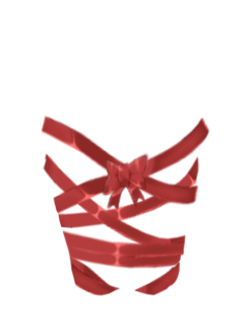
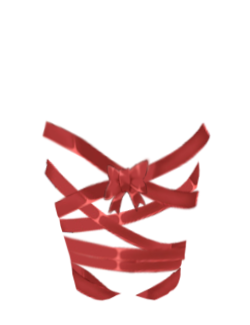
ribbon expanded

Changed region(s): [[0.168, 0.3385, 0.84, 0.9231]]

diff --git a/BondageClub/Assets/Female3DCG/Female3DCG.js b/BondageClub/Assets/Female3DCG/Female3DCG.js
@@ -66,58 +66,58 @@ var AssetFemale3DCG = [
 				],
 				Require: ["ClothLower", "ClothAccessory"]
 			},
-			{ Name: "BabydollDress1", Fetish: ["ABDL"], HideItem: ["ClothLowerLatexSkirt1", "ItemNipplesPiercingsRoundPiercing", "ItemNipplesPiercingsWeightedPiercing", "ItemDevicesStrapOnSmooth", "ItemDevicesStrapOnStuds", "ItemNipplesLactationPump"], Layer: [
+			{ Name: "BabydollDress1", Fetish: ["ABDL"], HideItem: ["ClothLowerLatexSkirt1", "ItemNipplesPiercingsRoundPiercing", "ItemNipplesPiercingsWeightedPiercing", "ItemDevicesStrapOnSmooth", "ItemDevicesStrapOnStuds", "ItemNipplesLactationPump", "BraRibbons", "ItemBreastRibbons"], Layer: [
 				{ Name: "Dress"},
 				{ Name: "Trim"}
 			] },
 			{ Name: "TeacherOutfit1", Hide: ["ItemNeck", "ItemHidden"], HideItem: ["ItemArmsLeatherCuffs", "ItemArmsFuturisticCuffs", "ItemArmsOrnateCuffs", "ClothLowerLatexSkirt1", "ClothLowerSkirt1", "ClothLowerSkirt2", "ClothLowerSkirt3", "ClothLowerTennisSkirt1", "ClothLowerClothSkirt1", "ItemNipplesPiercingsRoundPiercing", "ItemNipplesPiercingsWeightedPiercing", "ItemDevicesStrapOnSmooth", "ItemDevicesStrapOnStuds", "ItemNipplesLactationPump"], AllowPose: ["TapedHands", "BackBoxTie", "BackCuffs", "BackElbowTouch", "Yoked", "Hogtied", "AllFours", "OverTheHead", "Horse", "KneelingSpread"] },
 			{ Name: "ChineseDress1", HideItem: ["ClothLowerLatexSkirt1", "ClothLowerLatexSkirt2", "ClothLowerSkirt1", "ClothLowerSkirt2", "ClothLowerSkirt3", "ClothLowerTennisSkirt1", "ClothLowerClothSkirt1", "ItemNipplesPiercingsRoundPiercing", "ItemNipplesPiercingsWeightedPiercing", "ItemDevicesStrapOnSmooth", "ItemDevicesStrapOnStuds", "ItemNipplesLactationPump"] },
 			{
-				Name: "ChineseDress2", Value: 60, HideItem: ["ItemNipplesPiercingsRoundPiercing", "ItemNipplesPiercingsWeightedPiercing", "ItemDevicesStrapOnSmooth", "ItemDevicesStrapOnStuds", "ItemNipplesLactationPump"],
+				Name: "ChineseDress2", Value: 60, HideItem: ["ItemNipplesPiercingsRoundPiercing", "ItemNipplesPiercingsWeightedPiercing", "ItemDevicesStrapOnSmooth", "ItemDevicesStrapOnStuds", "ItemNipplesLactationPump", "BraRibbons", "ItemBreastRibbons"],
 				Layer: [
 					{ Name: "Dress", AllowColorize: true },
 					{ Name: "Edges", AllowColorize: true },
 				]
 			},
-			{ Name: "TShirt1", HideItem: ["ItemNipplesPiercingsRoundPiercing", "ItemNipplesPiercingsWeightedPiercing", "ItemNipplesLactationPump"], Require: ["ClothLower"] },
+			{ Name: "TShirt1", HideItem: ["ItemNipplesPiercingsRoundPiercing", "ItemNipplesPiercingsWeightedPiercing", "ItemNipplesLactationPump", "BraRibbons", "ItemBreastRibbons"], Require: ["ClothLower"] },
 			{ Name: "TennisShirt1", Hide: ["ItemHidden"], HideItem: ["ItemNipplesPiercingsRoundPiercing", "ItemNipplesPiercingsWeightedPiercing", "ItemNipplesLactationPump"], Require: ["ClothLower"] },
 			{ Name: "Sweater1", HideItem: ["ItemArmsLeatherCuffs", "ItemArmsFuturisticCuffs", "ItemArmsOrnateCuffs", "ItemNipplesPiercingsRoundPiercing", "ItemNipplesPiercingsWeightedPiercing", "ItemNipplesLactationPump"], Require: ["ClothLower"] },
 			{ Name: "MistressTop", Fetish: ["Leather"], Value: -1, Bonus: "KidnapDomination", Hide: ["Bra"], HideItem: ["ItemNipplesPiercingsRoundPiercing", "ItemNipplesPiercingsWeightedPiercing", "ItemNipplesLactationPump"], Require: ["ClothLower"] },
-			{ Name: "AdultBabyDress1", Fetish: ["ABDL"], Value: 60, Hide: ["ItemHidden"], HideItem: ["ClothLowerLatexSkirt1", "ClothLowerLatexSkirt2", "ClothLowerSkirt1", "ClothLowerSkirt2", "ClothLowerSkirt3", "ClothLowerTennisSkirt1", "ClothLowerClothSkirt1", "ItemNipplesPiercingsRoundPiercing", "ItemNipplesPiercingsWeightedPiercing", "ItemDevicesStrapOnSmooth", "ItemDevicesStrapOnStuds", "ItemNipplesLactationPump"], Layer: [
+			{ Name: "AdultBabyDress1", Fetish: ["ABDL"], Value: 60, Hide: ["ItemHidden"], HideItem: ["ClothLowerLatexSkirt1", "ClothLowerLatexSkirt2", "ClothLowerSkirt1", "ClothLowerSkirt2", "ClothLowerSkirt3", "ClothLowerTennisSkirt1", "ClothLowerClothSkirt1", "ItemNipplesPiercingsRoundPiercing", "ItemNipplesPiercingsWeightedPiercing", "ItemDevicesStrapOnSmooth", "ItemDevicesStrapOnStuds", "ItemNipplesLactationPump", "BraRibbons", "ItemBreastRibbons"], Layer: [
 				{ Name: "Dress"},
 				{ Name: "Sash"},
 				{ Name: "Trim"}
 			] },
-			{ Name: "AdultBabyDress2", Fetish: ["ABDL"], Value: 80, HideItem: ["ClothLowerLatexSkirt1", "ClothLowerLatexSkirt2", "ClothLowerSkirt1", "ClothLowerSkirt2", "ClothLowerSkirt3", "ClothLowerTennisSkirt1", "ClothLowerClothSkirt1", "ItemNipplesPiercingsRoundPiercing", "ItemNipplesPiercingsWeightedPiercing", "ItemDevicesStrapOnSmooth", "ItemDevicesStrapOnStuds", "ItemNipplesLactationPump"] },
-			{ Name: "AdultBabyDress3", Fetish: ["ABDL"], Value: 40, HideItem: ["ClothLowerLatexSkirt1", "ClothLowerLatexSkirt2", "ClothLowerSkirt1", "ClothLowerSkirt2", "ClothLowerSkirt3", "ClothLowerTennisSkirt1", "ClothLowerClothSkirt1", "ItemNipplesPiercingsRoundPiercing", "ItemNipplesPiercingsWeightedPiercing", "ItemDevicesStrapOnSmooth", "ItemDevicesStrapOnStuds", "ItemNipplesLactationPump"] },
+			{ Name: "AdultBabyDress2", Fetish: ["ABDL"], Value: 80, HideItem: ["ClothLowerLatexSkirt1", "ClothLowerLatexSkirt2", "ClothLowerSkirt1", "ClothLowerSkirt2", "ClothLowerSkirt3", "ClothLowerTennisSkirt1", "ClothLowerClothSkirt1", "ItemNipplesPiercingsRoundPiercing", "ItemNipplesPiercingsWeightedPiercing", "ItemDevicesStrapOnSmooth", "ItemDevicesStrapOnStuds", "ItemNipplesLactationPump", "BraRibbons", "ItemBreastRibbons"] },
+			{ Name: "AdultBabyDress3", Fetish: ["ABDL"], Value: 40, HideItem: ["ClothLowerLatexSkirt1", "ClothLowerLatexSkirt2", "ClothLowerSkirt1", "ClothLowerSkirt2", "ClothLowerSkirt3", "ClothLowerTennisSkirt1", "ClothLowerClothSkirt1", "ItemNipplesPiercingsRoundPiercing", "ItemNipplesPiercingsWeightedPiercing", "ItemDevicesStrapOnSmooth", "ItemDevicesStrapOnStuds", "ItemNipplesLactationPump", "BraRibbons", "ItemBreastRibbons"] },
 			{ Name: "AdultBabyDress4", Fetish: ["ABDL"], Value: 80, Left: 100, Top: 190, HideItem: ["ClothLowerLatexSkirt1", "ClothLowerLatexSkirt2", "ClothLowerSkirt1", "ClothLowerSkirt2", "ClothLowerSkirt3", "ClothLowerTennisSkirt1", "ClothLowerClothSkirt1", "ItemNipplesPiercingsRoundPiercing", "ItemNipplesPiercingsWeightedPiercing", "ItemDevicesStrapOnSmooth", "ItemDevicesStrapOnStuds", "ItemNipplesLactationPump"] },
 			{ Name: "NurseUniform", Value: -1, Bonus: "KidnapDomination", HideItem: ["ClothLowerLatexSkirt1", "ClothLowerLatexSkirt2", "ClothLowerSkirt1", "ClothLowerSkirt2", "ClothLowerSkirt3", "ClothLowerTennisSkirt1", "ClothLowerClothSkirt1", "ItemNipplesPiercingsRoundPiercing", "ItemNipplesPiercingsWeightedPiercing", "ItemDevicesStrapOnSmooth", "ItemDevicesStrapOnStuds", "ItemNipplesLactationPump"] },
 			{ Name: "Robe1", Value: 30, Hide: ["ItemHidden"], HideItem: ["ClothLowerLatexSkirt1", "ItemNipplesPiercingsRoundPiercing", "ItemNipplesPiercingsWeightedPiercing", "ItemDevicesStrapOnSmooth", "ItemDevicesStrapOnStuds", "ItemNipplesLactationPump"] },
 			{ Name: "SuspenderTop1", Fetish: ["Lingerie"], Priority: 25, Value: 50, Hide: ["Panties", "ItemVulva", "ItemVulvaPiercings"], Expose: ["ItemNipples", "ItemNipplesPiercings", "ItemBreast"] },
 			{ Name: "LeatherCorsetTop1", Fetish: ["Leather"], BuyGroup: "LeatherCorsetTop1", Priority: 25, Value: 60, HideItem: ["ItemNipplesPiercingsRoundPiercing", "ItemNipplesPiercingsWeightedPiercing", "ItemNipplesLactationPump"] },
 			{
-				Name: "FlowerDress", Value: 50, HideItem: ["ClothLowerLatexSkirt1", "ClothLowerLatexSkirt2", "ClothLowerSkirt1", "ClothLowerSkirt2", "ClothLowerSkirt3", "ClothLowerTennisSkirt1", "ClothLowerClothSkirt1", "ItemNipplesPiercingsRoundPiercing", "ItemNipplesPiercingsWeightedPiercing", "ItemDevicesStrapOnSmooth", "ItemDevicesStrapOnStuds", "ItemNipplesLactationPump"],
+				Name: "FlowerDress", Value: 50, HideItem: ["ClothLowerLatexSkirt1", "ClothLowerLatexSkirt2", "ClothLowerSkirt1", "ClothLowerSkirt2", "ClothLowerSkirt3", "ClothLowerTennisSkirt1", "ClothLowerClothSkirt1", "ItemNipplesPiercingsRoundPiercing", "ItemNipplesPiercingsWeightedPiercing", "ItemDevicesStrapOnSmooth", "ItemDevicesStrapOnStuds", "ItemNipplesLactationPump", "BraRibbons", "ItemBreastRibbons"],
 				AllowPose: ["TapedHands", "BackBoxTie", "BackCuffs", "BackElbowTouch", "Yoked", "Hogtied", "AllFours", "OverTheHead", "Suspension"],
 				Layer: [
 					{ Name: "Dress", AllowColorize: true },
 					{ Name: "Flower", AllowColorize: false }
 				]
 			},
-			{ Name: "Dress2", Value: 100, HideItem: ["ItemNipplesPiercingsRoundPiercing", "ItemNipplesPiercingsWeightedPiercing", "ItemDevicesStrapOnSmooth", "ItemDevicesStrapOnStuds", "ItemNipplesLactationPump"] },
+			{ Name: "Dress2", Value: 100, HideItem: ["ItemNipplesPiercingsRoundPiercing", "ItemNipplesPiercingsWeightedPiercing", "ItemDevicesStrapOnSmooth", "ItemDevicesStrapOnStuds", "ItemNipplesLactationPump", "BraRibbons", "ItemBreastRibbons"] },
 			{ Name: "LaceBabydoll", Fetish: ["Lingerie"], Value: 40, HideItem: ["ItemNipplesPiercingsRoundPiercing", "ItemNipplesPiercingsWeightedPiercing", "ItemNipplesLactationPump"] },
 			{ Name: "SleevelessTop", Fetish: ["Lingerie"], Value: 20, HideItem: ["ItemNipplesPiercingsRoundPiercing", "ItemNipplesPiercingsWeightedPiercing", "ItemNipplesLactationPump"] },
 			{
-				Name: "DressFur", Value: 70, HideItem: ["ClothLowerLatexSkirt1", "ClothLowerLatexSkirt2", "ClothLowerSkirt1", "ClothLowerSkirt2", "ClothLowerSkirt3", "ClothLowerTennisSkirt1", "ClothLowerClothSkirt1", "ItemNipplesPiercingsRoundPiercing", "ItemNipplesPiercingsWeightedPiercing", "ItemDevicesStrapOnSmooth", "ItemDevicesStrapOnStuds", "ItemNipplesLactationPump"],
+				Name: "DressFur", Value: 70, HideItem: ["ClothLowerLatexSkirt1", "ClothLowerLatexSkirt2", "ClothLowerSkirt1", "ClothLowerSkirt2", "ClothLowerSkirt3", "ClothLowerTennisSkirt1", "ClothLowerClothSkirt1", "ItemNipplesPiercingsRoundPiercing", "ItemNipplesPiercingsWeightedPiercing", "ItemDevicesStrapOnSmooth", "ItemDevicesStrapOnStuds", "ItemNipplesLactationPump", "BraRibbons", "ItemBreastRibbons"],
 				Layer: [
 					{ Name: "Fabric" },
 					{ Name: "Fur" }
 				]
 			},
-			{ Name: "BodyTowel1", Value: 30, HideItem: ["ClothLowerLatexSkirt1", "ClothLowerLatexSkirt2", "ClothLowerSkirt1", "ClothLowerSkirt2", "ClothLowerSkirt3", "ClothLowerTennisSkirt1", "ClothLowerClothSkirt1", "ItemNipplesPiercingsRoundPiercing", "ItemNipplesPiercingsWeightedPiercing", "ItemNipplesLactationPump"] },
+			{ Name: "BodyTowel1", Value: 30, HideItem: ["ClothLowerLatexSkirt1", "ClothLowerLatexSkirt2", "ClothLowerSkirt1", "ClothLowerSkirt2", "ClothLowerSkirt3", "ClothLowerTennisSkirt1", "ClothLowerClothSkirt1", "ItemNipplesPiercingsRoundPiercing", "ItemNipplesPiercingsWeightedPiercing", "ItemNipplesLactationPump", "BraRibbons", "ItemBreastRibbons"] },
 			{ Name: "Yukata1", Value: 50, HideItem: ["ClothLowerLatexSkirt1", "ClothLowerLatexSkirt2", "ClothLowerSkirt1", "ClothLowerSkirt2", "ClothLowerSkirt3", "ClothLowerTennisSkirt1", "ClothLowerClothSkirt1", "ItemNipplesPiercingsRoundPiercing", "ItemNipplesPiercingsWeightedPiercing", "ItemArmsLeatherCuffs", "ItemArmsFuturisticCuffs", "ItemArmsOrnateCuffs", "ItemDevicesStrapOnSmooth", "ItemDevicesStrapOnStuds", "ItemNipplesLactationPump"] },
 			{ Name: "SteampunkCorsetTop1", Fetish: ["Leather"], Priority: 25, Value: 70, Hide: ["ItemHidden"], HideItem: ["ClothLowerTennisSkirt1", "ItemNipplesPiercingsRoundPiercing", "ItemNipplesPiercingsWeightedPiercing", "ItemNipplesLactationPump"] },
-			{ Name: "BondageDress1", BuyGroup: "BondageDress1", Value: 90, Hide: ["ClothLower"], HideItem: ["ItemNipplesPiercingsRoundPiercing", "ItemNipplesPiercingsWeightedPiercing", "ItemDevicesStrapOnSmooth", "ItemDevicesStrapOnStuds", "ItemNipplesLactationPump"] },
-			{ Name: "BondageDress2", BuyGroup: "BondageDress2", Value: 90, Hide: ["ClothLower"], HideItem: ["ItemNipplesPiercingsRoundPiercing", "ItemNipplesPiercingsWeightedPiercing", "ItemDevicesStrapOnSmooth", "ItemDevicesStrapOnStuds", "ItemNipplesLactationPump"] },
+			{ Name: "BondageDress1", BuyGroup: "BondageDress1", Value: 90, Hide: ["ClothLower"], HideItem: ["ItemNipplesPiercingsRoundPiercing", "ItemNipplesPiercingsWeightedPiercing", "ItemDevicesStrapOnSmooth", "ItemDevicesStrapOnStuds", "ItemNipplesLactationPump", "BraRibbons", "ItemBreastRibbons"] },
+			{ Name: "BondageDress2", BuyGroup: "BondageDress2", Value: 90, Hide: ["ClothLower"], HideItem: ["ItemNipplesPiercingsRoundPiercing", "ItemNipplesPiercingsWeightedPiercing", "ItemDevicesStrapOnSmooth", "ItemDevicesStrapOnStuds", "ItemNipplesLactationPump", "BraRibbons", "ItemBreastRibbons"] },
 			{ Name: "ShoulderlessTop", Value: 40, HideItem: ["ItemNipplesPiercingsRoundPiercing", "ItemNipplesPiercingsWeightedPiercing", "ItemNipplesLactationPump"] },
 			{ Name: "Dress3", Value: 80, Hide: ["ClothLower"], HideItem: ["ItemNipplesPiercingsRoundPiercing", "ItemNipplesPiercingsWeightedPiercing", "ItemDevicesStrapOnSmooth", "ItemDevicesStrapOnStuds", "ItemNipplesLactationPump"] },
 			{ Name: "ComfyTop", Value: 60, Hide: ["ItemNipples", "ItemNipplesPiercings"], Expose: ["ItemVulva", "ItemVulvaPiercings", "ItemButt"] },
@@ -140,8 +140,8 @@ var AssetFemale3DCG = [
 					{ Name: "Corset" }
 				]
 			},
-			{ Name: "BondageBustier1", BuyGroup: "BondageDress1", Value: -1, HideItem: ["ItemNipplesPiercingsRoundPiercing", "ItemNipplesPiercingsWeightedPiercing", "ItemNipplesLactationPump"] },
-			{ Name: "BondageBustier2", BuyGroup: "BondageDress2", Value: -1, HideItem: ["ItemNipplesPiercingsRoundPiercing", "ItemNipplesPiercingsWeightedPiercing", "ItemNipplesLactationPump"] },
+			{ Name: "BondageBustier1", BuyGroup: "BondageDress1", Value: -1, HideItem: ["ItemNipplesPiercingsRoundPiercing", "ItemNipplesPiercingsWeightedPiercing", "ItemNipplesLactationPump", "BraRibbons", "ItemBreastRibbons"] },
+			{ Name: "BondageBustier2", BuyGroup: "BondageDress2", Value: -1, HideItem: ["ItemNipplesPiercingsRoundPiercing", "ItemNipplesPiercingsWeightedPiercing", "ItemNipplesLactationPump", "BraRibbons", "ItemBreastRibbons"] },
 			{ Name: "LeatherBolero", Fetish:["Leather"], Value: 60, Alpha: [{ Group: ["ItemNeck"], Masks: [[185, 215, 130, 65]] }], Expose: ["ItemVulva", "ItemVulvaPiercings", "ItemButt", "ItemNipples", "ItemNipplesPiercings", "ItemBreast", "ItemTorso"], HideItem: ["ItemNeckLeatherCollar", "ItemNeckLeatherCollarBell", "ItemNeckLeatherCollarBow", "ItemNeckSlaveCollar", "ItemNeckClubSlaveCollar", "ItemNeckShockCollar", "ItemNeckShockCollarRemote", "ItemNeckBatCollar", "ItemNeckPostureCollar", "ItemNeckSteelPostureCollar", "ItemNeckDogCollar", "ItemNeckSpikeCollar", "ItemNeckHighCollar", "ItemNeckLeatherChoker", "ItemNeckPetCollar", "ItemNeckMaidCollar", "ItemNeckBordelleCollar", "ItemNeckLoveLeatherCollar", "ItemNeckNobleCorsetCollar", "ItemNeckHeartCollar", "ItemNeckHighSecurityCollar", "ItemNeckOrnateCollar", "ItemNeckSlenderSteelCollar", "ItemNeckHeartLinkChoker", "ItemNeckNeckRope"] },
 			{
 				Name: "Bodice1", Value: 90, Top: 213,
@@ -459,6 +459,7 @@ var AssetFemale3DCG = [
 				]
 			},
 			{ Name: "Camisole", Priority: 22, DefaultColor: "#908867", Value: 5, Hide: ["ItemNipples", "ItemNipplesPiercings"] },
+			{ Name: "Ribbons", Fetish: ["Lingerie"], Value: 30, BuyGroup: "Ribbon", AllowType: ["Bow", "Wrap"], Extended: true },
 		],
 		Color: ["Default", "#cccccc", "#aaaaaa", "#888888", "#666666", "#444444", "#222222", "#aa8080", "#80aa80", "#8080aa", "#aaaa80", "#80aaaa", "#aa80aa", "#cc3333", "#33cc33", "#3333cc", "#cccc33", "#33cccc", "#cc33cc"]
 	},

diff --git a/BondageClub/Screens/Inventory/Bra/Ribbons/Ribbons.js b/BondageClub/Screens/Inventory/Bra/Ribbons/Ribbons.js
@@ -1,0 +1,36 @@
+"use strict";
+var InventoryBraRibbonsOptions = [
+	{
+		Name: "Basic",
+		Property: {
+			Type: null,
+		},
+	},
+	{
+		Name: "Bow",
+		Property: {
+			Type: "Bow",
+		},
+	},
+	{
+		Name: "Wrap",
+		Property: {
+			Type: "Wrap",
+		},
+	},
+];
+
+// Loads the item extension properties
+function InventoryBraRibbonsLoad() {
+	ExtendedItemLoad(InventoryBraRibbonsOptions, "SelectRibbonStyle");
+}
+
+// Draw the item extension screen
+function InventoryBraRibbonsDraw() {
+	ExtendedItemDraw(InventoryBraRibbonsOptions, "RibbonBraType", null, true);
+}
+
+// Catches the item extension clicks
+function InventoryBraRibbonsClick() {
+	ExtendedItemClick(InventoryBraRibbonsOptions);
+}

diff --git a/BondageClub/index.html b/BondageClub/index.html
@@ -330,6 +330,7 @@
 <script src="Screens/Inventory/ItemBreast/Ribbons/Ribbons.js"></script>
 <script src="Screens/Inventory/ItemPelvis/Ribbons/Ribbons.js"></script>
 <script src="Screens/Inventory/ItemLegs/Ribbons/Ribbons.js"></script>
+<script src="Screens/Inventory/Bra/Ribbons/Ribbons.js"></script>
 <script>
 
 /*
